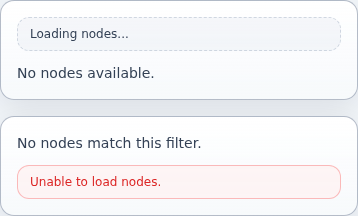
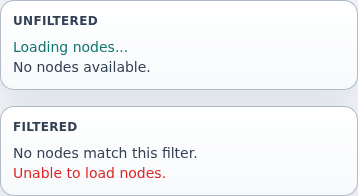
chore(e2e): update visual regression thresholds and selectors
Update Playwright configuration to increase the allowed pixel difference
threshold for visual comparisons to reduce flakiness.

Refactor theme preference end-to-end tests to use new data attributes
for locating group surfaces, replacing legacy class-based selectors
to align with the implemented grouped list surface architecture.

diff --git a/e2e/theme-preferences.spec.ts b/e2e/theme-preferences.spec.ts
@@ -135,8 +135,9 @@ test.describe('theme first paint and preferences', () => {
     test.skip(!supported, 'This Chromium build cannot emulate prefers-reduced-transparency.');
     await openCatalogue(page, 'ControlGrid');
     await page.locator('[data-nav-group-id="Controls"]').click();
-    const card = page.locator('.nodel-card').first();
-    const panel = page.locator('.nodel-panel').first();
+    const groupSurfaces = page.locator('[data-catalogue-example="control-grid-group-surfaces"]');
+    const card = groupSurfaces.locator('.nodel-group-shell[data-surface="card"]');
+    const panel = groupSurfaces.locator('.nodel-group-shell[data-surface="panel"]');
     const toolbar = page.locator('nodel-toolbar');
     const popover = page.locator('#nodel-menu-Controls');
     const control = page.locator('[data-catalogue-example="control-grid-fixed-columns"] button');

diff --git a/playwright.config.ts b/playwright.config.ts
@@ -16,7 +16,7 @@ export default defineConfig({
       animations: 'disabled',
       caret: 'hide',
       // Native system font rasterization differs slightly between Linux images.
-      maxDiffPixels: 100,
+      maxDiffPixels: 150,
       scale: 'css'
     }
   },